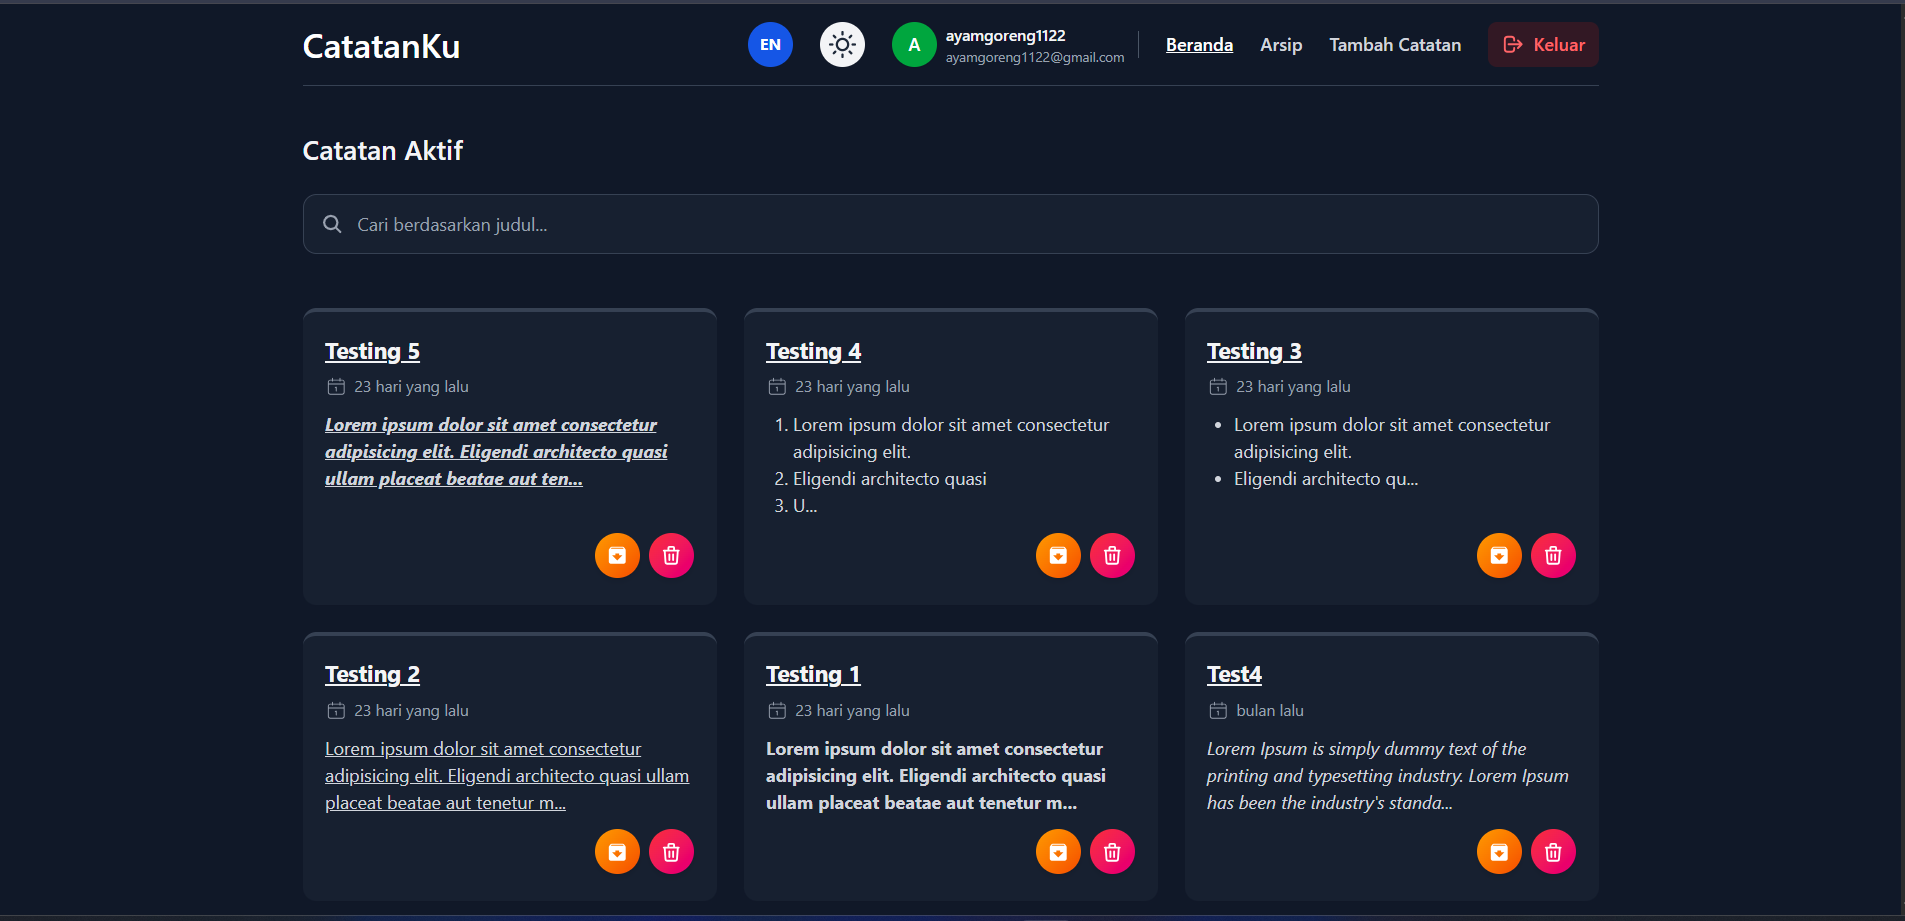
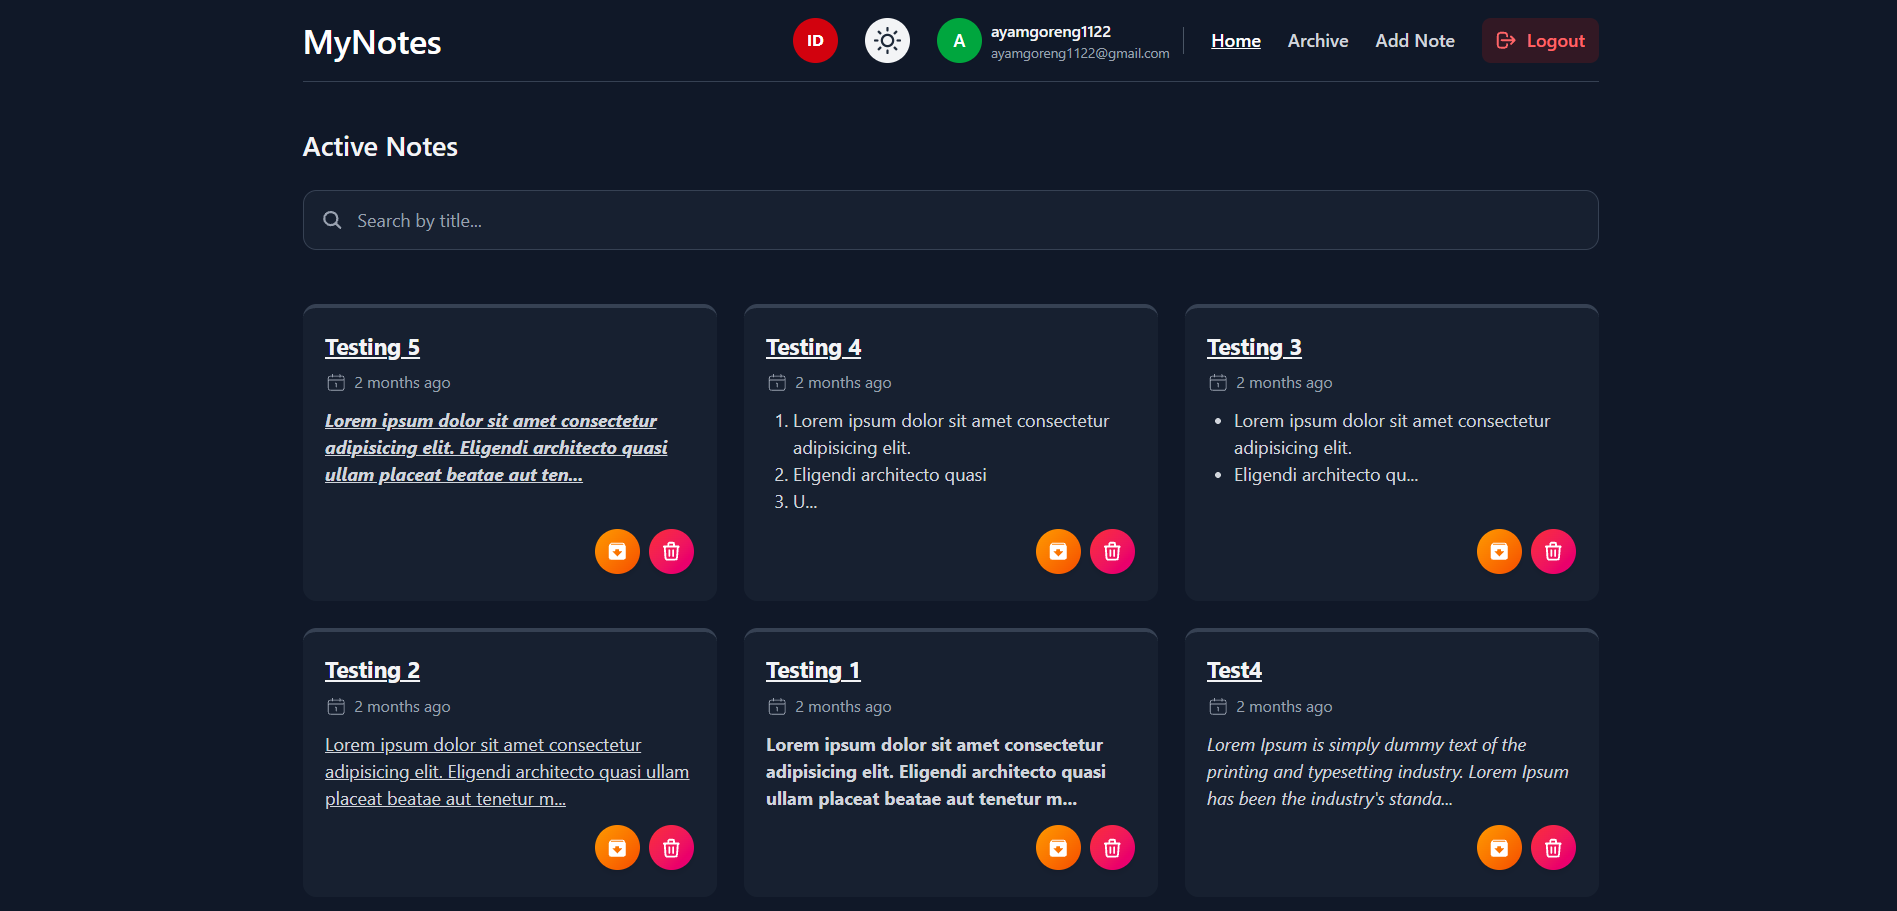
Change the frontend project images and add links for the stats items

diff --git a/data/project-page.ts b/data/project-page.ts
@@ -1,5 +1,4 @@
 // data/projects.ts
-
 export type Project = {
   title: string;
   description: string;
@@ -17,40 +16,6 @@ export type ProjectCategory = {
 };
 
 export const projectCategories: ProjectCategory[] = [
-  // {
-  //   id: 'javascript',
-  //   label: 'JavaScript',
-  //   icon: '/assets/js.png',
-  //   projects: [
-  //     {
-  //       title: 'Public Notes App',
-  //       description:
-  //         'A simple, clean web-based tool to create and manage your daily notes quickly and easily. Capture your thoughts, ideas, to-dos, and reminders. Powered by Dicoding Notes API https://notes-api.dicoding.dev/v2.',
-  //       stack: [
-  //         { name: 'HTML', icon: '/assets/html-5.png' },
-  //         { name: 'CSS', icon: '/assets/css-3.png' },
-  //         { name: 'JavaScript', icon: '/assets/js.png' },
-  //       ],
-  //       image: '/assets/javascript-project-1.png',
-  //       live: 'https://public-notes-app.netlify.app',
-  //       github: 'https://github.com/putrasedana/public-notes-app',
-  //     },
-  //     {
-  //       title: 'Story App',
-  //       description:
-  //         'Platform for sharing image-based stories, featuring user authentication and form validation. Powered by Dicoding Story API https://story-api.dicoding.dev/v1.',
-  //       stack: [
-  //         { name: 'HTML', icon: '/assets/html-5.png' },
-  //         { name: 'SASS', icon: '/assets/sass.png' },
-  //         { name: 'JavaScript', icon: '/assets/js.png' },
-  //       ],
-  //       image: '/assets/javascript-project-2.png',
-  //       live: 'https://story-app-0011.netlify.app',
-  //       github: 'https://github.com/putrasedana/story-app',
-  //     },
-  //   ],
-  // },
-
   {
     id: "frontend",
     label: "Front-End",
@@ -70,11 +35,11 @@ export const projectCategories: ProjectCategory[] = [
         github: "https://github.com/putrasedana/personal-notes-app",
       },
       {
-        title: "Random Forum App",
+        title: "Dev Forum App",
         description:
           "A simple, interactive web forum where users can create and join discussions, post messages, and engage with others in community-style threads. Powered by Dicoding Forum API https://forum-api.dicoding.dev/v1.",
         stack: [
-          { name: "JavaScript", icon: "/assets/js.png" },
+          { name: "TypeScript", icon: "/assets/typescript.png" },
           { name: "React", icon: "/assets/react.png" },
           { name: "Tailwind", icon: "/assets/tailwind.png" },
         ],
@@ -83,9 +48,9 @@ export const projectCategories: ProjectCategory[] = [
         github: "https://github.com/putrasedana/random-forum-app",
       },
       {
-        title: "Resumind",
+        title: "Resume Analyzer App",
         description:
-          "AI Resume Analyzer is a web app that uses AI to evaluate resumes, provide ATS compatibility insights, and suggest improvements to better match job descriptions. Powered by https://developer.puter.com",
+          "Resumind is a resume analyzer that uses AI to evaluate resumes, provide ATS compatibility insights, and suggest improvements to better match job descriptions. Powered by https://developer.puter.com",
         stack: [
           { name: "TypeScript", icon: "/assets/typescript.png" },
           { name: "React", icon: "/assets/react.png" },

diff --git a/components/Stats.tsx b/components/Stats.tsx
@@ -1,7 +1,8 @@
-'use client';
+"use client";
 
-import { stats } from '@/data/home-page';
-import CountUp from 'react-countup';
+import { stats } from "@/data/home-page";
+import CountUp from "react-countup";
+import Link from "next/link";
 
 const Stats = () => {
   return (
@@ -9,24 +10,25 @@ const Stats = () => {
       <div className="flex flex-wrap gap-6 max-w-[80vw] mx-auto xl:max-w-none">
         {stats.map((item, index) => {
           return (
-            <div
+            <Link
               key={index}
-              className="flex-1 flex gap-4 items-center justify-center xl:justify-start"
+              href={item.path}
+              className="flex-1 flex gap-4 items-center justify-center xl:justify-start group cursor-pointer"
             >
               <CountUp
                 end={item.num}
                 duration={5}
                 delay={2}
-                className="text-4xl xl:text-6xl font-extrabold"
+                className="text-4xl xl:text-6xl font-extrabold group-hover:text-green-400 transition-colors duration-300"
               />
               <p
                 className={`${
-                  item.text.length < 15 ? 'max-w-25' : 'max-w-37.5'
-                } leading-snug text-white/80`}
+                  item.text.length < 15 ? "max-w-25" : "max-w-37.5"
+                } leading-snug text-white/80 group-hover:text-white transition-colors duration-300`}
               >
                 {item.text}
               </p>
-            </div>
+            </Link>
           );
         })}
       </div>

diff --git a/app/resume/page.tsx b/app/resume/page.tsx
@@ -6,8 +6,12 @@ import { ScrollArea } from "@/components/ui/scroll-area";
 import { Tooltip, TooltipContent, TooltipProvider, TooltipTrigger } from "@/components/ui/tooltip";
 import { about, certifications, education, experience, skills } from "@/data/resume-page";
 import Image from "next/image";
+import { useSearchParams } from "next/navigation";
 
 const Resume = () => {
+  const searchParams = useSearchParams();
+  const tab = searchParams.get("tab") || "Experience";
+
   return (
     <motion.div
       initial={{ opacity: 0 }}
@@ -17,7 +21,7 @@ const Resume = () => {
       }}
       className=" flex items-center justify-center py-12 xl:py-6 mx-auto max-w-5xl w-full px-4 sm:px-6 md:px-8 lg:px-12 xl:px-0"
     >
-      <Tabs defaultValue="Experience" className="w-full flex flex-col xl:flex-row gap-12">
+      <Tabs defaultValue={tab} className="w-full flex flex-col xl:flex-row gap-12">
         <TabsList className="flex flex-col w-full max-w-72 mx-auto xl:mx-0 gap-6">
           <TabsTrigger value="Experience">Experience</TabsTrigger>
           <TabsTrigger value="Education">Education</TabsTrigger>

diff --git a/data/home-page.ts b/data/home-page.ts
@@ -1,12 +1,11 @@
 import { FaGithub } from "react-icons/fa";
 import { MdEmail } from "react-icons/md";
-import { skills } from "./resume-page";
 
 const stats = [
-  { num: 8, text: "Months of Experience" },
-  { num: 10, text: "Projects Completed" },
-  { num: skills.skillsList.length, text: "Core Technologies" },
-  { num: 16, text: "Courses Completed" },
+  { num: 8, text: "Months of Experience", path: "/resume?tab=Experience" },
+  { num: 9, text: "Projects Completed", path: "/projects" },
+  { num: 10, text: "Core Technologies", path: "/resume?tab=Skills" },
+  { num: 4, text: "Certifications Completed", path: "/resume?tab=Certifications" },
 ];
 
 const socials = [
@@ -15,11 +14,6 @@ const socials = [
     path: "https://github.com/putrasedana",
     label: "GitHub Profile",
   },
-  // {
-  //   icon: FaLinkedin ,
-  //   path: "",
-  //   label: "LinkedIn Profile",
-  // },
   {
     icon: MdEmail,
     path: "mailto:putrasedana03@gmail.com",
